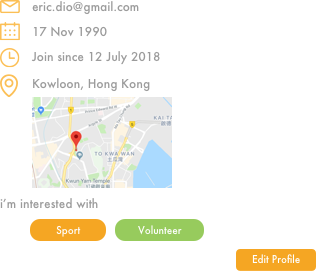
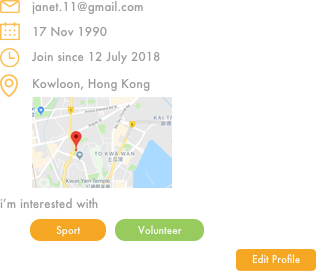
update day 3

Changed region(s): [[0.0854, 0.0, 0.4557, 0.059]]

diff --git a/WeDoo/LoginPage.xaml b/WeDoo/LoginPage.xaml
@@ -8,7 +8,7 @@
             <Image Source="we-doo.png" Margin="0, 0, 0, 50"/>
             <Image x:Name="facebook" Source="facebook.png" />
             <Image x:Name="twitter" Source="twitter.png"  />
-            
+            <Image x:Name="vitality" Source="vitality.png" />
             <StackLayout VerticalOptions="Center" Margin="0, 10, 0, 10">
                 <Label HorizontalTextAlignment="Center" Text=" - Or - " FontSize="Micro"  Margin="0, 0, 0, -5" />
 <!--                <Label HorizontalTextAlignment="Center" Text="Sign in with" FontSize="Micro" />-->

diff --git a/WeDoo/MainView.cs b/WeDoo/MainView.cs
@@ -26,7 +26,7 @@ namespace WeDoo
         ContentPage SetMe2Page() {
             var contentPage = new ContentPage();
             contentPage.Icon = "me.png";
-            contentPage.Title = "Eric";
+            contentPage.Title = "Janet";
             contentPage.ToolbarItems.Add(new ToolbarItem {
                 ClassId = "Notification",
                 Icon = "Icons/ic_notification.png",
@@ -53,7 +53,7 @@ namespace WeDoo
         {
             var contentPage = new ContentPage();
             contentPage.Icon = "me.png";
-            contentPage.Title = "Eric";
+            contentPage.Title = "Janet";
             contentPage.ToolbarItems.Add(new ToolbarItem
             {
                 ClassId = "Notification",
@@ -74,12 +74,15 @@ namespace WeDoo
             var lbl_mydoo = new Label() { Text = "My Doo", Margin = new Thickness(50, 0, 0, 0), HorizontalOptions = LayoutOptions.Fill, HorizontalTextAlignment = TextAlignment.Center, FontSize = Device.GetNamedSize(NamedSize.Small, typeof(EntryCell)), FontAttributes = FontAttributes.Bold };
             
             var bottom = new Image() { Source = "about me.png" };
+            var bottom2 = new Image() { Source = "" };
             lbl_aboutme.GestureRecognizers.Add(new TapGestureRecognizer {
                 Command = new Command((obj) => {
                     lbl_aboutme.TextColor = Color.FromHex("F5A623");
                     lbl_mydoo.TextColor = Color.FromHex("9B9B9B");
                     bottom.Source = "about me.png";
                     bottom.Margin = new Thickness(0, 0, 0, 0);
+                    bottom2.Source = "";
+                    bottom2.Margin = new Thickness(0, 0, 0, 0);
                 })
             });
             lbl_mydoo.GestureRecognizers.Add(new TapGestureRecognizer
@@ -87,8 +90,10 @@ namespace WeDoo
                 Command = new Command((obj) => {
                     lbl_mydoo.TextColor = Color.FromHex("F5A623");
                     lbl_aboutme.TextColor = Color.FromHex("9B9B9B");
-                    bottom.Source = "mydoo.png";
+                    bottom.Source = "upcoming-doo.png";
                     bottom.Margin = new Thickness(-30, -10, 0, 0);
+                    bottom2.Source = "past-doo.png";
+                    bottom2.Margin = new Thickness(-10, 20, 0, 0);
                 })
             });
             lbl_aboutme.TextColor = Color.FromHex("F5A623");
@@ -99,6 +104,7 @@ namespace WeDoo
             mainlayout.Children.Add(segmentLayout);
 
             mainlayout.Children.Add(bottom);
+            mainlayout.Children.Add(bottom2);
             contentPage.Content = mainlayout;
 
             return contentPage;

diff --git a/WeDoo/LoginPage.xaml.cs b/WeDoo/LoginPage.xaml.cs
@@ -11,34 +11,34 @@ namespace WeDoo
             InitializeComponent();
             NavigationPage.SetHasNavigationBar(this, false);
 
-            facebook.GestureRecognizers.Add(new TapGestureRecognizer
-            {
+            facebook.GestureRecognizers.Add(new TapGestureRecognizer {
                 Command = new Command((obj) => {
                     App.mainNavigation.PushAsync(new MainView());
                 })
             });
-            twitter.GestureRecognizers.Add(new TapGestureRecognizer
-            {
+            twitter.GestureRecognizers.Add(new TapGestureRecognizer {
                 Command = new Command((obj) => {
                     App.mainNavigation.PushAsync(new MainView());
                 })
             });
-            email.GestureRecognizers.Add(new TapGestureRecognizer
-            {
+            email.GestureRecognizers.Add(new TapGestureRecognizer {
+                Command = new Command((obj) => {
+                    App.mainNavigation.PushAsync(new MainView());
+                })
+            });
+            vitality.GestureRecognizers.Add(new TapGestureRecognizer {
                 Command = new Command((obj) => {
                     App.mainNavigation.PushAsync(new MainView());
                 })
             });
         }
 
-        private void OnLoginButtonClicked(View view, object obj)
-        {
+        private void OnLoginButtonClicked(View view, object obj) {
             //this.Navigation.PushModalAsync(new MainView(), true);
             App.mainNavigation.PushAsync(new MainView());
         }
 
-        private void OnSignUpButtonClicked(object sender, EventArgs e)
-        {
+        private void OnSignUpButtonClicked(object sender, EventArgs e) {
 
         }
     }
